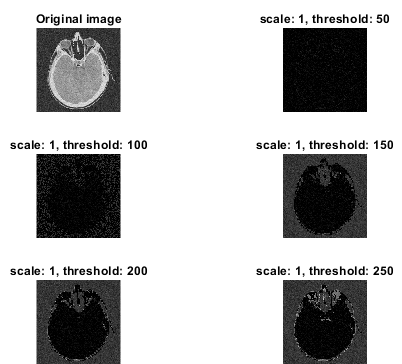
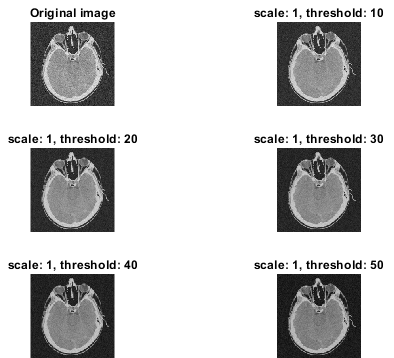
report images and 3.3 change

diff --git a/Image Processing/Assignment 3/lab3_3.m b/Image Processing/Assignment 3/lab3_3.m
@@ -15,9 +15,7 @@ for i = 1:4
     
     for j = 1:5
         subplot(3,2,j+1);
-        imshow(IPwaveletdenoise(mri, i, 50*j));
-        title(['scale: ' num2str(i) ', threshold: ' num2str(j*50)]);
+        imshow(IPwaveletdenoise(mri, i, 10*j));
+        title(['scale: ' num2str(i) ', threshold: ' num2str(j*10)]);
     end
-    
-    imshow(uint8(wdenoise(double(mri), i)));
 end

diff --git a/Image Processing/Assignment 3/IPwaveletdenoise.m b/Image Processing/Assignment 3/IPwaveletdenoise.m
@@ -4,7 +4,7 @@ function out = IPwaveletdenoise(image, scale, thres)
     w = IPdwt2(image, scale);
     
     %Apply soft thresholding
-    w(logical((w<-thres) + (w>thres))) = 0;
+    w((w>-thres) & (w<thres)) = 0;
     w(w>thres) = w(w>thres) - thres;
     w(w<-thres) = w(w<-thres) + thres;
     
